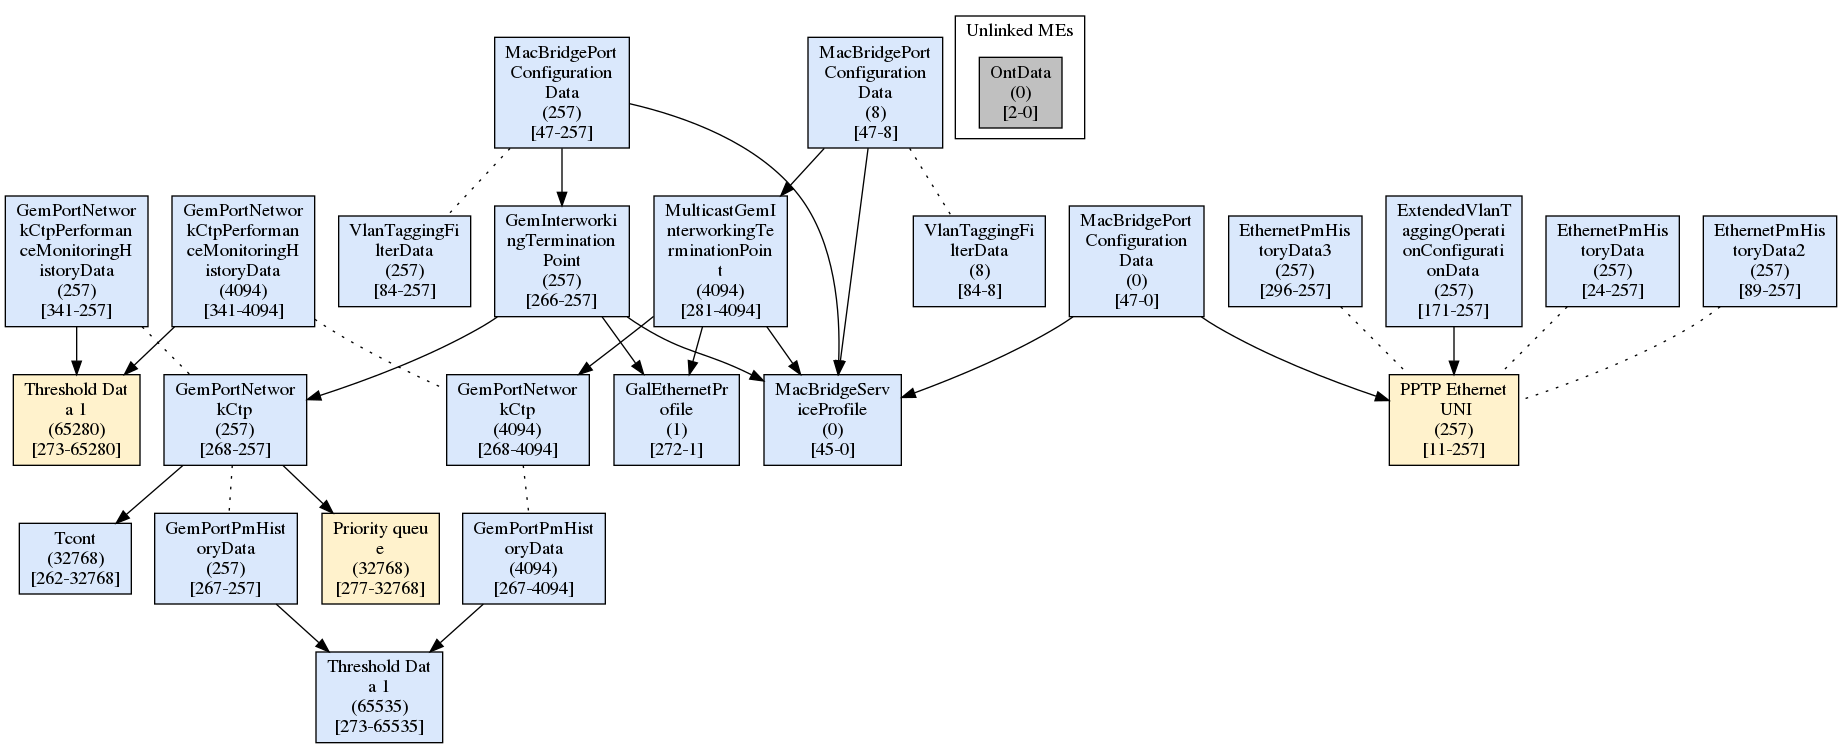
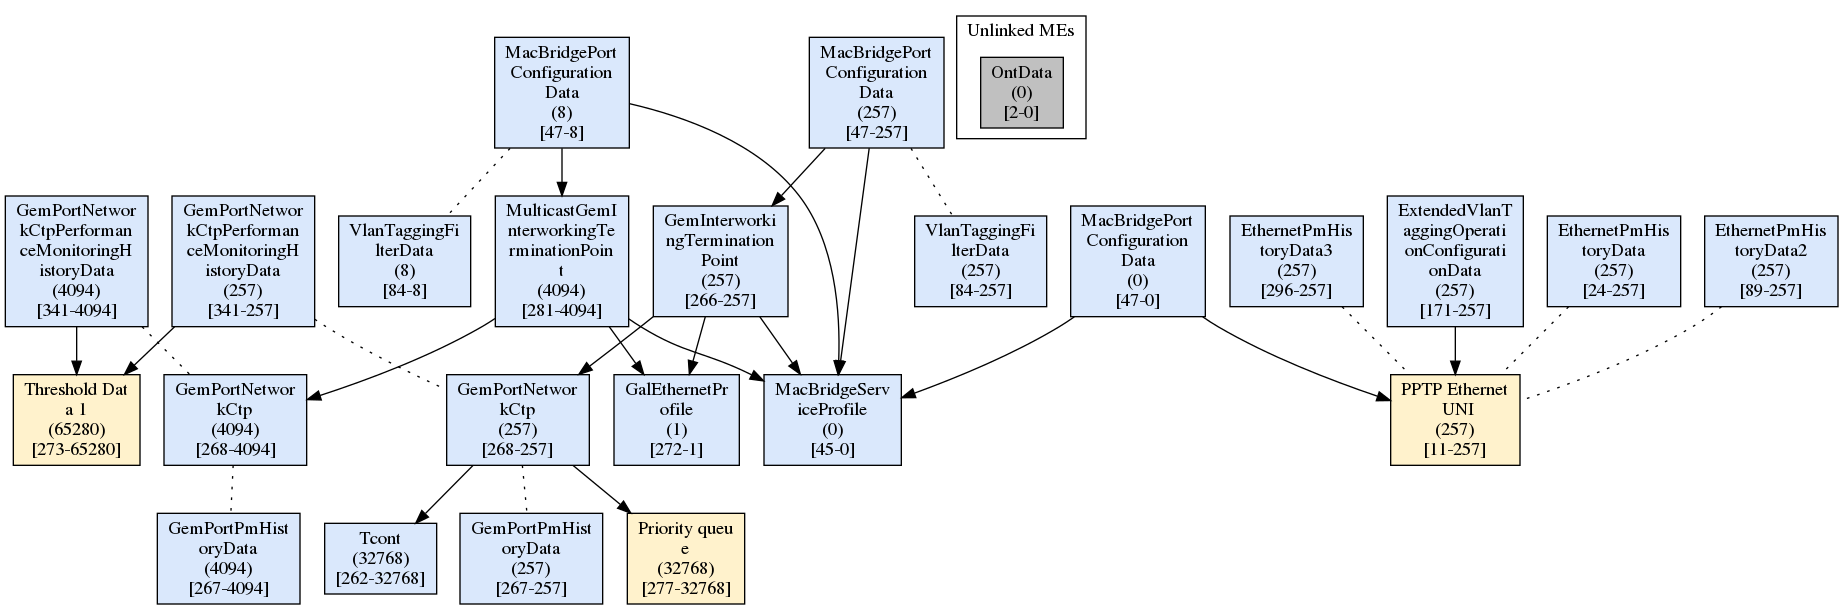
Fix pointer to 0xFFFF bug

diff --git a/analyser.py b/analyser.py
@@ -232,11 +232,13 @@ class Analyser:
                         else:
                             if me_candidate in ManagedEntity.me_dict and val_int != 0:
                                 e_append = {'me': me_candidate, 'name': ManagedEntity.me_dict[me_candidate], 'inst': val_int}
-                                appendMeWithPointer(ent_obj, e_append)
 
-                                # If not 0x[F..F] and not already saved, append it!
-                                if val_int != ((2**(val_len*8))-1) and e_append not in added_mes:
-                                    added_mes.append(e_append)
+                                # If not 0xFFFF and not already saved, append it!
+                                if val_int != 65535:
+                                    appendMeWithPointer(ent_obj, e_append)
+
+                                    if e_append not in added_mes:
+                                        added_mes.append(e_append)
 
             imp_link = e.getImplicitlyLinked()
             found_il = False
